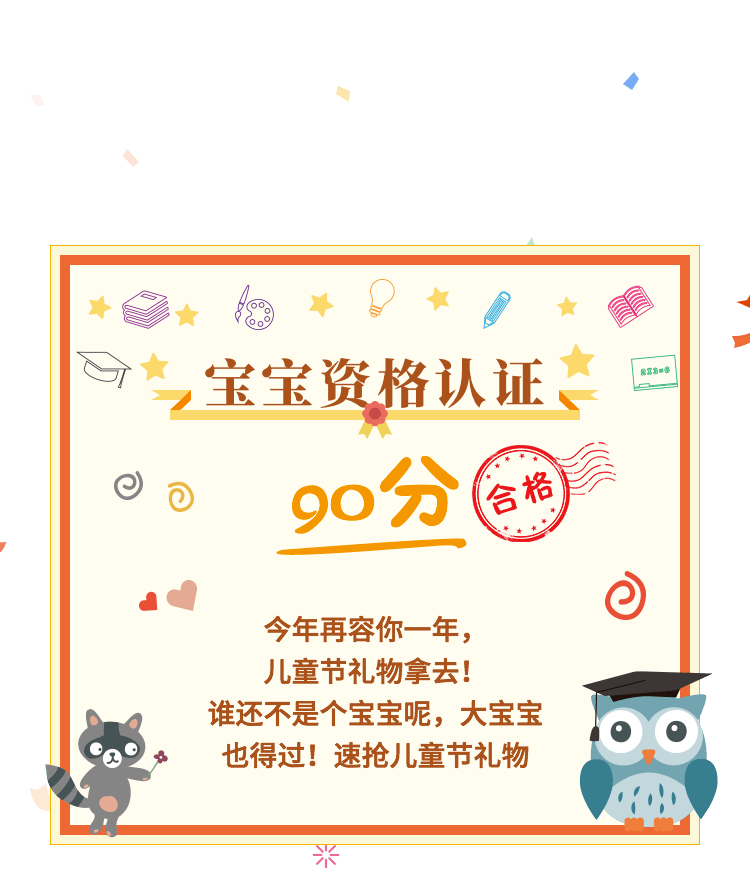
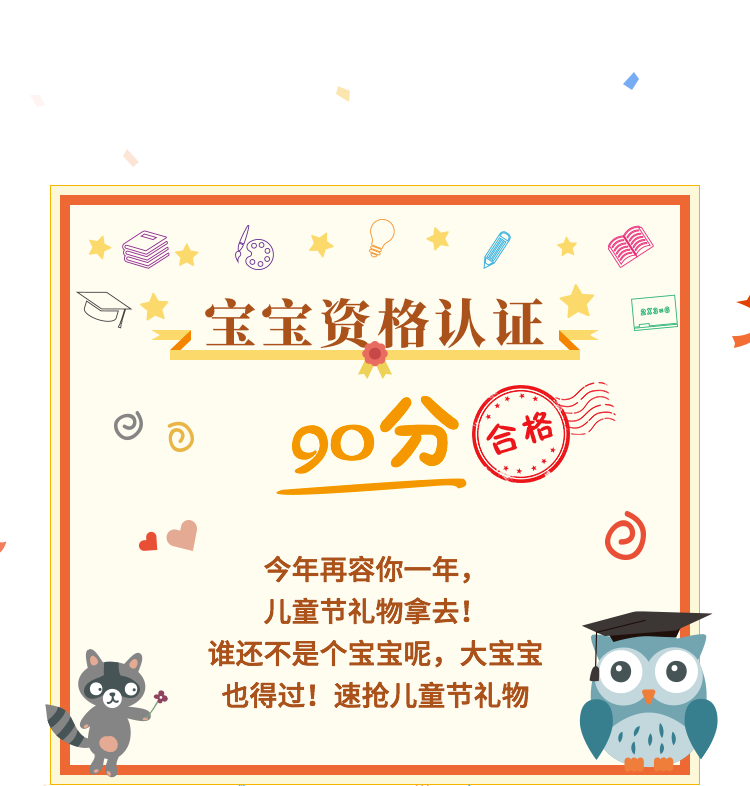
不不不

diff --git a/css/styles.less b/css/styles.less
@@ -134,6 +134,8 @@ html,body{
                         height:.98rem;
                         background: url('../images/h_btn.png') no-repeat;
                         background-size: cover;
+                        position: relative;
+                        top: -.6rem;
                     } 
                 }
             }
@@ -159,7 +161,7 @@ html,body{
                 }
                 &:nth-child(2){
                   width: 7.5rem;
-                  height: 6.10rem;
+                  height: 5.6rem;
                   display: flex;
                   align-items: center;
                   justify-content: center;
@@ -580,7 +582,7 @@ html,body{
                      height:.94rem;
                      background: url('../images/cloth_btn.png') no-repeat;
                      background-size: cover;
-                     margin: .35rem auto 0;
+                     margin: .2rem auto 0;
                 }
                 .choose_content{
                     >ul{
@@ -656,7 +658,7 @@ html,body{
                  height: .82rem;
                  background: url('../images/next.png') no-repeat;
                  background-size: cover;
-                 margin: .35rem auto 0;
+                 margin: .2rem auto 0;
             }
         }
         // 主页
@@ -669,33 +671,38 @@ html,body{
             >div{
                 &:nth-child(1){
                     width: 7.5rem;
-                    height:8.69rem;
+                    height:7.86rem;
                     background: url('../images/main_01.png') no-repeat;
                     background-size: cover;
                     position: relative; 
                     >a{
-                        position: absolute;
-                        top: .3rem;
-                        right: .17rem;
                         display: inline-block;
-                        width: 1.38rem;
-                        height: .4rem;
-                        border-radius: .2rem;
-                        background-color: #0088ef;
-                        line-height: .4rem;
-                        text-align: center;
-                        color: #fff;
-                        font-size: .24rem;
+                        &:nth-child(1){
+                            position: absolute;
+                            top: .3rem;
+                            left: .17rem;
+                            writing-mode: vertical-lr;
+                            width: .4rem;
+                            height: 1.38rem;
+                            border-radius: .2rem;
+                            background-color: #0088ef;
+                            line-height: .4rem;
+                            text-align: center;
+                            color: #fff;
+                            font-size: .24rem;
+                        }
+                        &:nth-child(2){
+                            position: absolute;
+                            top: .2rem;
+                            left: 0;
+                            right: 0;
+                            margin: auto;
+                            width: 6rem;
+                            height: 1.33rem;
+                            background: url('../images/main_hf.gif') no-repeat;
+                            background-size: cover;
+                        }
                     }
-                    >div{
-                        position: absolute;
-                        top: .87rem;
-                        width: 7.5rem;
-                        height: 1.41rem;
-                        background: url('../images/main_hf.gif') no-repeat;
-                        background-size: cover;
-                    }
-
                 }
                 &:nth-child(2){
                     width: 5.87rem;
@@ -704,6 +711,7 @@ html,body{
                     display: flex;
                     align-items: flex-end;
                     justify-content: space-between;
+                    position: relative;
                     >div{
                         width: 2.45rem;
                         display: flex;
@@ -725,6 +733,10 @@ html,body{
                                     height:.94rem;
                                     background: url('../images/main_unbtn1.png') no-repeat;
                                     background-size: cover;  
+                                    animation:mymove 1.5s infinite;
+                                    -webkit-animation:mymove 1.5s infinite; /*Safari and Chrome*/
+                                    animation-direction:alternate;/*轮流反向播放动画。*/
+                                    animation-timing-function: ease-in-out; /*动画的速度曲线*/
                                 }
                             }
 
@@ -744,13 +756,21 @@ html,body{
                                     height:.94rem;
                                     background: url('../images/main_unbtn2.png') no-repeat;
                                     background-size: cover; 
-                                    animation:mymove 1.5s infinite;
-                                    -webkit-animation:mymove 1.5s infinite; /*Safari and Chrome*/
-                                    animation-direction:alternate;/*轮流反向播放动画。*/
-                                    animation-timing-function: ease-in-out; /*动画的速度曲线*/
+                                  
                                 }
                             }
 
+                        }
+                        &:nth-child(3){
+                            position: absolute;
+                            top: 0;
+                            right: 0;
+                            left: 0;
+                            margin: auto;
+                            width: 2.4rem;
+                            height: .84rem;
+                            background: url('../images/main_su.png') no-repeat;
+                            background-size: cover;
                         }
                         // 查看按钮
                         .allling{
@@ -1201,6 +1221,14 @@ html,body{
                     transform: scale(1.1);
                 }
         }
+        .mymove{
+            animation:mymove 1.5s infinite;
+            -webkit-animation:mymove 1.5s infinite; /*Safari and Chrome*/
+            animation-direction:alternate;/*轮流反向播放动画。*/
+            animation-timing-function: ease-in-out; /*动画的速度曲线*/
+        }
+        // 摇晃
+      
         /* 遮罩层 */
         section.mask{
             position: absolute;
@@ -1209,6 +1237,7 @@ html,body{
             background-color: rgba(0,0,0,.9);
             z-index: 100;
         }
+        
 }
 
              

diff --git a/css/styles.css b/css/styles.css
@@ -155,6 +155,8 @@ body section.home > div:nth-child(3) > a {
   height: .98rem;
   background: url('../images/h_btn.png') no-repeat;
   background-size: cover;
+  position: relative;
+  top: -0.6rem;
 }
 html section.choose,
 body section.choose {
@@ -178,7 +180,7 @@ body section.choose > div:nth-child(1) > p:nth-child(2) {
 html section.choose > div:nth-child(2),
 body section.choose > div:nth-child(2) {
   width: 7.5rem;
-  height: 6.10rem;
+  height: 5.6rem;
   display: flex;
   align-items: center;
   justify-content: center;
@@ -447,7 +449,7 @@ body section.choose.choose_05 > a {
   height: .94rem;
   background: url('../images/cloth_btn.png') no-repeat;
   background-size: cover;
-  margin: .35rem auto 0;
+  margin: .2rem auto 0;
 }
 html section.choose.choose_05 .choose_content > ul > li > div:nth-child(1),
 body section.choose.choose_05 .choose_content > ul > li > div:nth-child(1) {
@@ -495,7 +497,7 @@ body section.choose > a {
   height: .82rem;
   background: url('../images/next.png') no-repeat;
   background-size: cover;
-  margin: .35rem auto 0;
+  margin: .2rem auto 0;
 }
 html section.main,
 body section.main {
@@ -508,19 +510,23 @@ body section.main {
 html section.main > div:nth-child(1),
 body section.main > div:nth-child(1) {
   width: 7.5rem;
-  height: 8.69rem;
+  height: 7.86rem;
   background: url('../images/main_01.png') no-repeat;
   background-size: cover;
   position: relative;
 }
 html section.main > div:nth-child(1) > a,
 body section.main > div:nth-child(1) > a {
+  display: inline-block;
+}
+html section.main > div:nth-child(1) > a:nth-child(1),
+body section.main > div:nth-child(1) > a:nth-child(1) {
   position: absolute;
   top: .3rem;
-  right: .17rem;
-  display: inline-block;
-  width: 1.38rem;
-  height: .4rem;
+  left: .17rem;
+  writing-mode: vertical-lr;
+  width: .4rem;
+  height: 1.38rem;
   border-radius: .2rem;
   background-color: #0088ef;
   line-height: .4rem;
@@ -528,12 +534,15 @@ body section.main > div:nth-child(1) > a {
   color: #fff;
   font-size: .24rem;
 }
-html section.main > div:nth-child(1) > div,
-body section.main > div:nth-child(1) > div {
+html section.main > div:nth-child(1) > a:nth-child(2),
+body section.main > div:nth-child(1) > a:nth-child(2) {
   position: absolute;
-  top: .87rem;
-  width: 7.5rem;
-  height: 1.41rem;
+  top: .2rem;
+  left: 0;
+  right: 0;
+  margin: auto;
+  width: 6rem;
+  height: 1.33rem;
   background: url('../images/main_hf.gif') no-repeat;
   background-size: cover;
 }
@@ -545,6 +554,7 @@ body section.main > div:nth-child(2) {
   display: flex;
   align-items: flex-end;
   justify-content: space-between;
+  position: relative;
 }
 html section.main > div:nth-child(2) > div,
 body section.main > div:nth-child(2) > div {
@@ -575,6 +585,13 @@ body section.main > div:nth-child(2) > div:nth-child(1) > a.unling_left {
   height: .94rem;
   background: url('../images/main_unbtn1.png') no-repeat;
   background-size: cover;
+  animation: mymove 1.5s infinite;
+  -webkit-animation: mymove 1.5s infinite;
+  /*Safari and Chrome*/
+  animation-direction: alternate;
+  /*轮流反向播放动画。*/
+  animation-timing-function: ease-in-out;
+  /*动画的速度曲线*/
 }
 html section.main > div:nth-child(2) > div:nth-child(2),
 body section.main > div:nth-child(2) > div:nth-child(2) {
@@ -597,13 +614,18 @@ body section.main > div:nth-child(2) > div:nth-child(2) > a.unling_right {
   height: .94rem;
   background: url('../images/main_unbtn2.png') no-repeat;
   background-size: cover;
-  animation: mymove 1.5s infinite;
-  -webkit-animation: mymove 1.5s infinite;
-  /*Safari and Chrome*/
-  animation-direction: alternate;
-  /*轮流反向播放动画。*/
-  animation-timing-function: ease-in-out;
-  /*动画的速度曲线*/
+}
+html section.main > div:nth-child(2) > div:nth-child(3),
+body section.main > div:nth-child(2) > div:nth-child(3) {
+  position: absolute;
+  top: 0;
+  right: 0;
+  left: 0;
+  margin: auto;
+  width: 2.4rem;
+  height: .84rem;
+  background: url('../images/main_su.png') no-repeat;
+  background-size: cover;
 }
 html section.main > div:nth-child(2) > div .allling,
 body section.main > div:nth-child(2) > div .allling {
@@ -1087,6 +1109,16 @@ body section.pop.tc_tishi > a {
   75% {
     transform: scale(1.1);
   }
+}
+html .mymove,
+body .mymove {
+  animation: mymove 1.5s infinite;
+  -webkit-animation: mymove 1.5s infinite;
+  /*Safari and Chrome*/
+  animation-direction: alternate;
+  /*轮流反向播放动画。*/
+  animation-timing-function: ease-in-out;
+  /*动画的速度曲线*/
 }
 html section.mask,
 body section.mask {

diff --git a/index.html b/index.html
@@ -69,9 +69,9 @@
 </head>
 
 <body>
-    <button style="position:absolute;z-index:100;top:.5rem;font-weight:bolder;" href="#" class="test2 clickios">没有关注公众号</button>
-    <button style="position:absolute;z-index:100;top:1rem;font-weight:bolder;" href="#" class="test3 clickios">没有绑定用户</button>
-    <button style="position:absolute;z-index:100;top:1.5rem;font-weight:bolder;" href="#" class="test4 clickios">异网用户</button>
+    <button style="position:absolute;z-index:100;top:2rem;font-weight:bolder;" href="#" class="test2 clickios">没有关注公众号</button>
+    <button style="position:absolute;z-index:100;top:2.5rem;font-weight:bolder;" href="#" class="test3 clickios">没有绑定用户</button>
+    <button style="position:absolute;z-index:100;top:3rem;font-weight:bolder;" href="#" class="test4 clickios">异网用户</button>
     <!--loading-->
     <section class="loader" >
         <div class="loader_info"></div>
@@ -284,10 +284,7 @@
     <section class="main">
         <div>
             <a href="javascript:void(0);" class="rule">活动规则</a>
-            <div>
-                <!-- <p>今年再容你一年，</p>
-                <p>儿童节礼物拿去！</p> -->
-            </div>
+            <a href="javascript:void(0);"></a>
         </div>
         <div>
             <div>
@@ -298,6 +295,7 @@
                 <p></p>
                 <a href="javascript:void(0);" class="lottery  main_right unling_right"></a>
             </div>
+            <div></div>
         </div>
     </section>
     <!-- 分享 -->

diff --git a/js/index.js b/js/index.js
@@ -177,6 +177,12 @@ $(document).ready(function () {
         $(this).parent().hide();
         hideMask();
     });
+        var rtn = false;
+        //移动号段验证
+        // var regtel = /^((13[4-9])|(15([0-2]|[7-9]))|(18[2|3|4|7|8])|(178)|(147))[\d]{8}$/;
+        var regtel = /^((13[4-9])|(15([0-2]|[7-9]))|(18[2|3|4|7|8])|(17[2|8])|(165)|(147)|198)[\d]{8}$/;
+        if (regtel.test(tel)) {
+            rtn = true;
      //关闭
      $('.close3').on('click', function () {
         $(this).parent().hide();
@@ -184,12 +190,6 @@ $(document).ready(function () {
     });
     //移动手机号码验证
     function istel(tel) {
-        var rtn = false;
-        //移动号段验证
-        // var regtel = /^((13[4-9])|(15([0-2]|[7-9]))|(18[2|3|4|7|8])|(178)|(147))[\d]{8}$/;
-        var regtel = /^((13[4-9])|(15([0-2]|[7-9]))|(18[2|3|4|7|8])|(17[2|8])|(165)|(147)|198)[\d]{8}$/;
-        if (regtel.test(tel)) {
-            rtn = true;
         }
         return rtn;
     }
